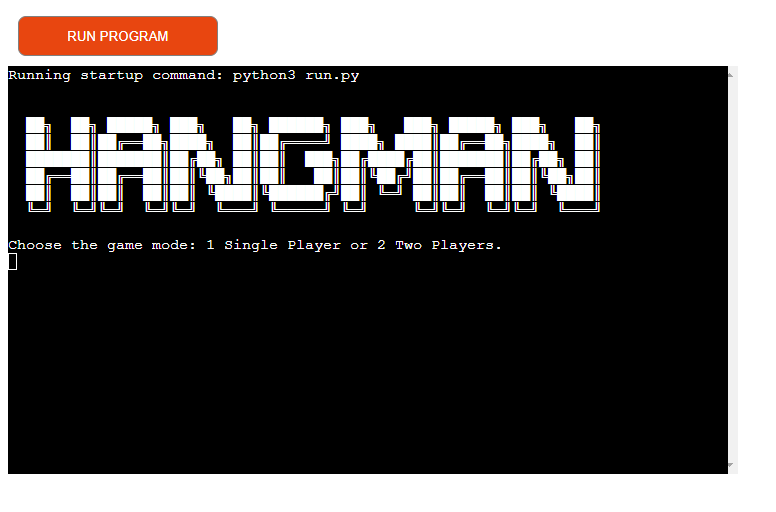
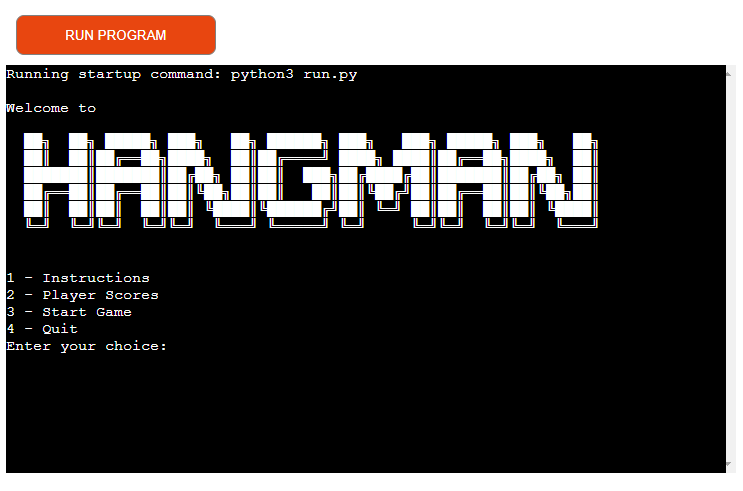
Add README content(fix bugs, add images and content)

Changed region(s): [[0.0, 0.0305, 0.9906, 0.9776], [0.1548, 0.7026, 0.2167, 0.7332]]

diff --git a/words.py b/words.py
@@ -11,7 +11,7 @@ word_list_intermediate = [
     'doorbell',
     'geography',
     'avocato',
-    'kangoroo'
+    'kangoroo',
     'preferential',
     'raspberry',
     'strawberry',

diff --git a/README.md b/README.md
@@ -59,25 +59,49 @@
 <h3>Game Start</h3>
 <ul>
 <li>Simple and visible logo to greet the player and start the game.</li>
-<li>The game starts asking which option to play, alone or with another player.</li>
+<li>Menu with options to interact with the player.</li>
 </ul>
 
 ![index](images/Initial.png)
 
-<h3>Letter Capture</h3>
+
+<h3>Instructions</h3>
 <ul>
-<li>Captures the letters entered by the player(s), if the letter is correct it goes to its correct space in the word order, if the letter is wrong the body starts to be inserted into the gallows.</li>
-<li>If the game is between two players, after each move is taken in turns players.</li>
+<li>Game instructions are presented to the player.</li>
 </ul>
+
+![index](images/instructions.png)
+
+
+<h3>Player Scores</h3>
+<ul>
+<li>Score presented to the player, containing name, score and game difficulty level.</li>
+</ul>
+
+![index](images/scores.png)
+
+<h3>Start Game</h3>
+<ul>
+<li>The game starts asking the difficulty level of the game.</li>
+<li>After is asked if the player plays alone or with another player simultaneously.</li>
+<li>The player's name is asked (minimum of 3 letters, symbols, numbers and blanks are not allowed).</li>
+<li>Game starts by asking the player to type a letter</li>
+<li>Captures the letters typed by the player(s), if the letter is correct it goes to its correct space in the word order, if the letter is wrong the body starts to be inserted in the gallows, if the letter has already been typed a message is sent to the player.</li>
+<li>Final message with a funny sentence for either end (win or lose).</li>
+</ul>
+
+![index](images/game.png)
 
 ![index](images/letter.png)
 
-<h3>Final Message</h3>
+![index](images/Final.png)
+
+<h3>Quit</h3>
 <ul>
-<li>Final message with a funny sentence for either end (win or lose)</li>
+<li>Thank you message appears on the screen.</li>
 </ul>
 
-![index](images/Final.png)
+![index](images/quit.png)
 
 <h2>Technologies Used</h2>
 <h3>Languages Used</h3>
@@ -165,11 +189,6 @@
 | Samsung Galaxy A12          |  Works as expected |
 <br>
 
-<h3>Improvements to be Implemented</h3>
-<ul>
-<li>Insert Intermediate and Advanced Levels Sections</li>
-</ul>
-
 <h3>Known Bugs</h3>
 <ul>
 <li>I had some problems implementing the Google Spread spreadsheet. Found 
@@ -184,7 +203,7 @@ The solution talking to support, and I realized that my requirements.txt were em
 <h4></h4>
 <ol>
 <li>In the GitHub body of my page, click the menu button: repository;</li>
-<li>Locate the portfolio01 project and click;</li>
+<li>Locate the Hangman--game project and click;</li>
 <li>Click on the button: settings;</li>
 <li>Click on the button: pages;</li>
 <li>Click on the button: visit the site.</li>
@@ -215,10 +234,6 @@ The solution talking to support, and I realized that my requirements.txt were em
 <li>Code reference.</li>
 </ul>
 </li>
-<li>Readme initial artwork </li> 
-<ul>
-<li>Designed and thought of by the developer of this project.</li>
-</ul>
 <li><a href = "https://textkool.com/" target = "_blank" rel="noopener">Text Kool</a>
 <ul>
 <li>ASCII text art generator</li>
@@ -238,6 +253,10 @@ MJ Codes
 <li>Code reference</li>
 </ul>
 </li>
+<li>Readme initial artwork </li> 
+<ul>
+<li>Designed and thought of by the developer of this project.</li>
+</ul>
 </ul>
 
 <h3>Content</h3>
